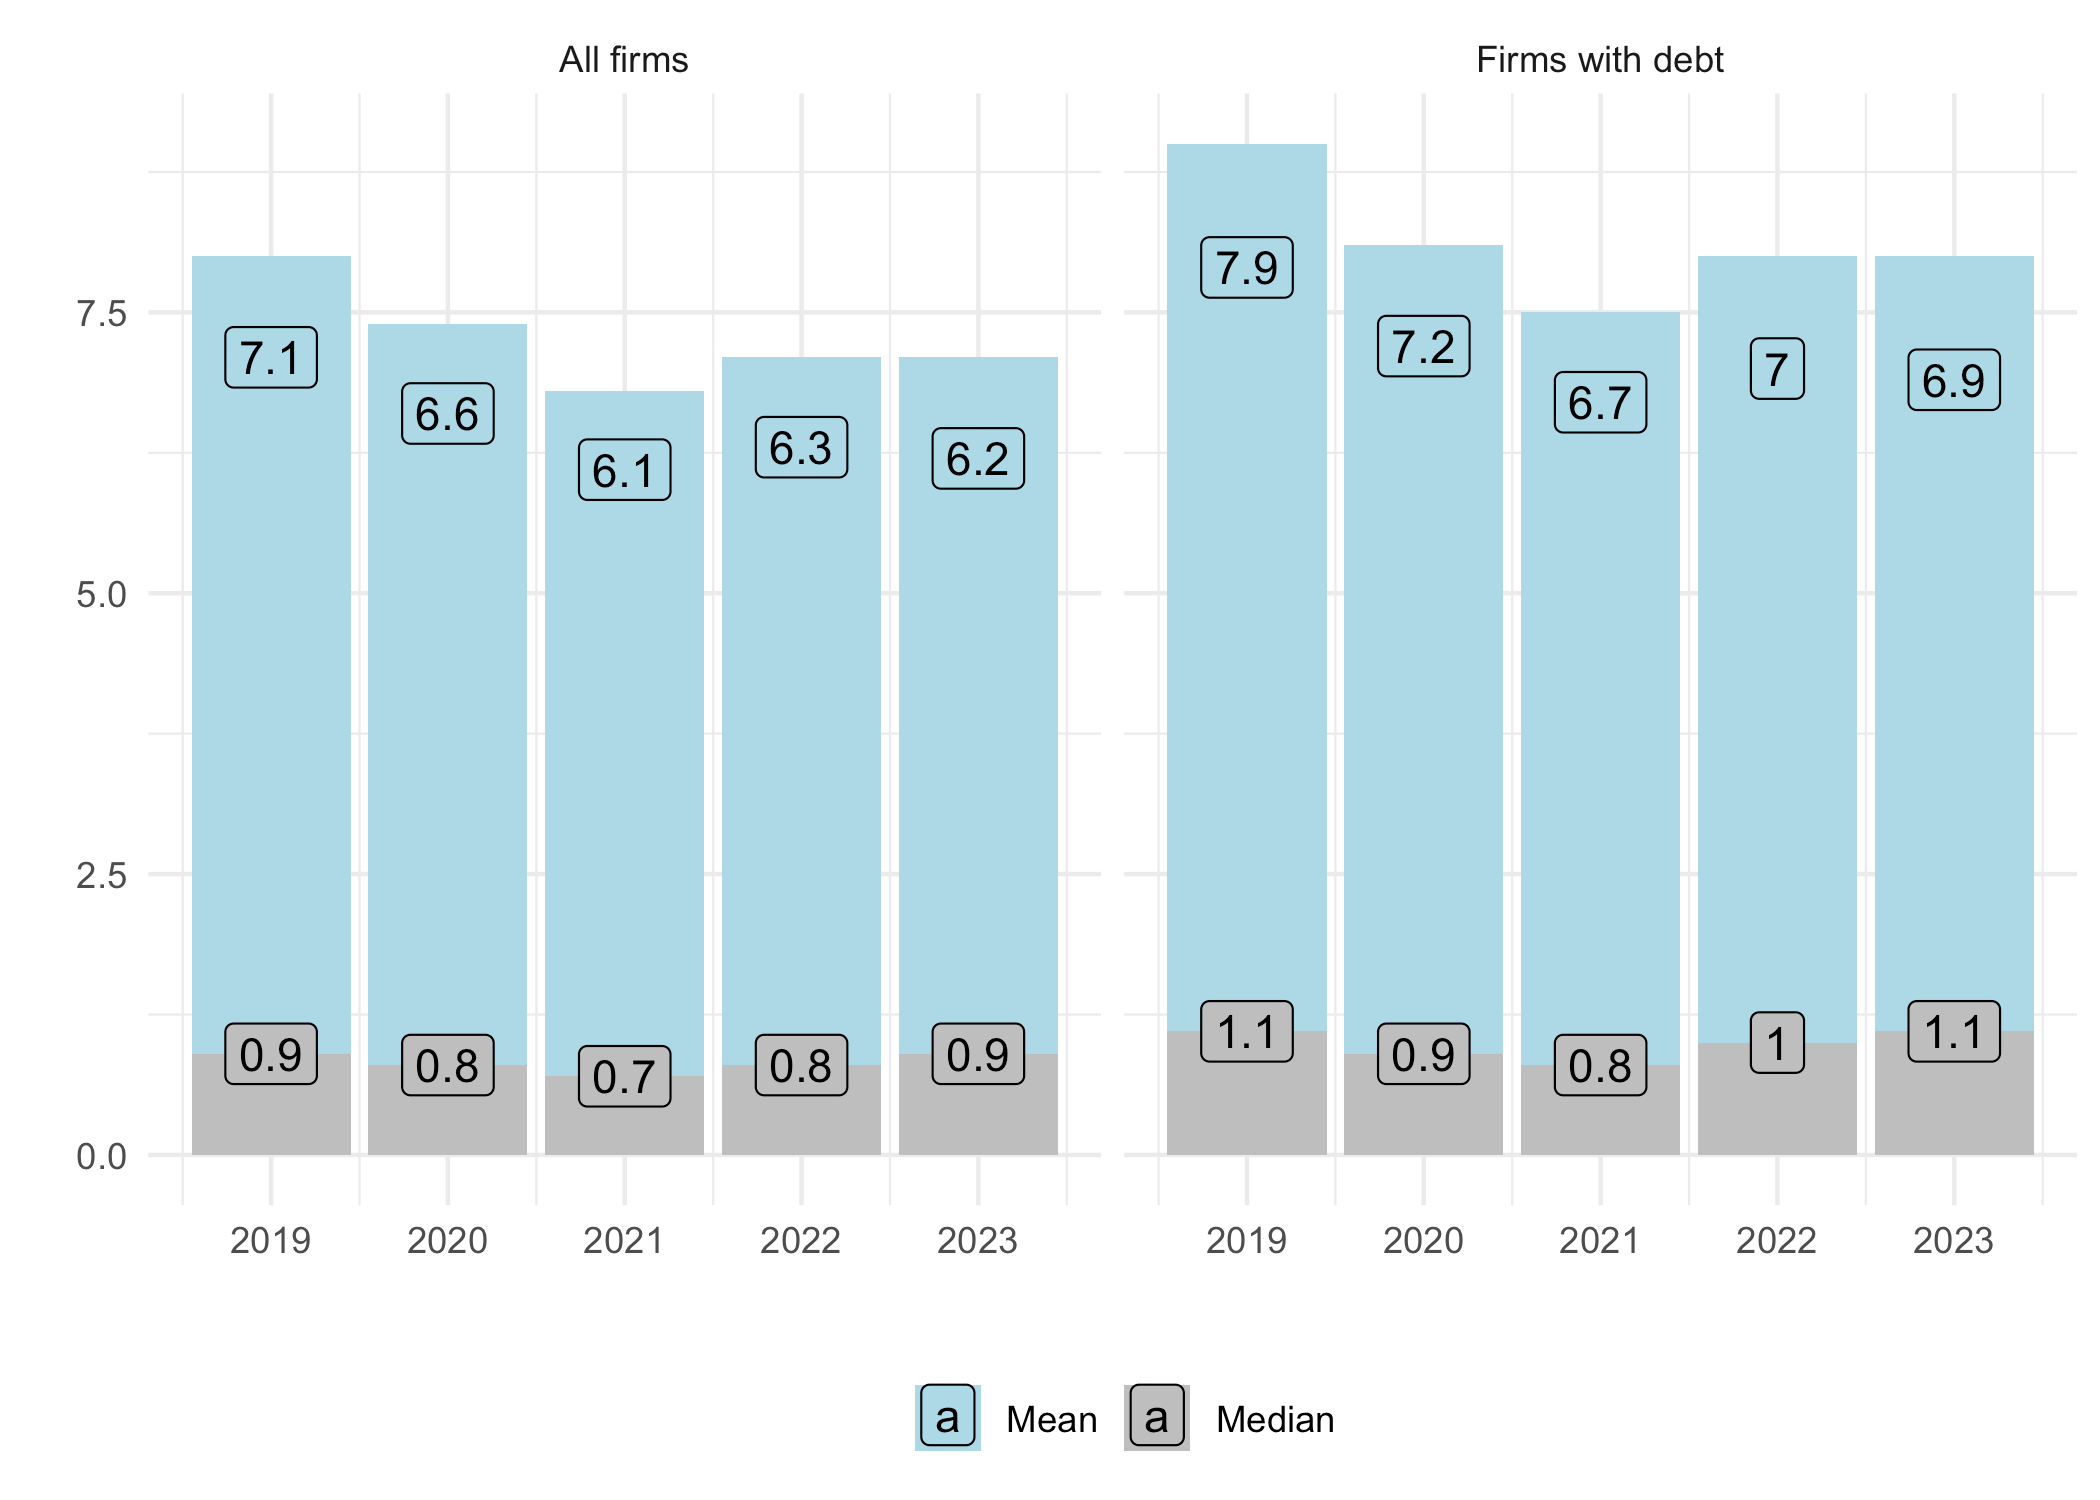
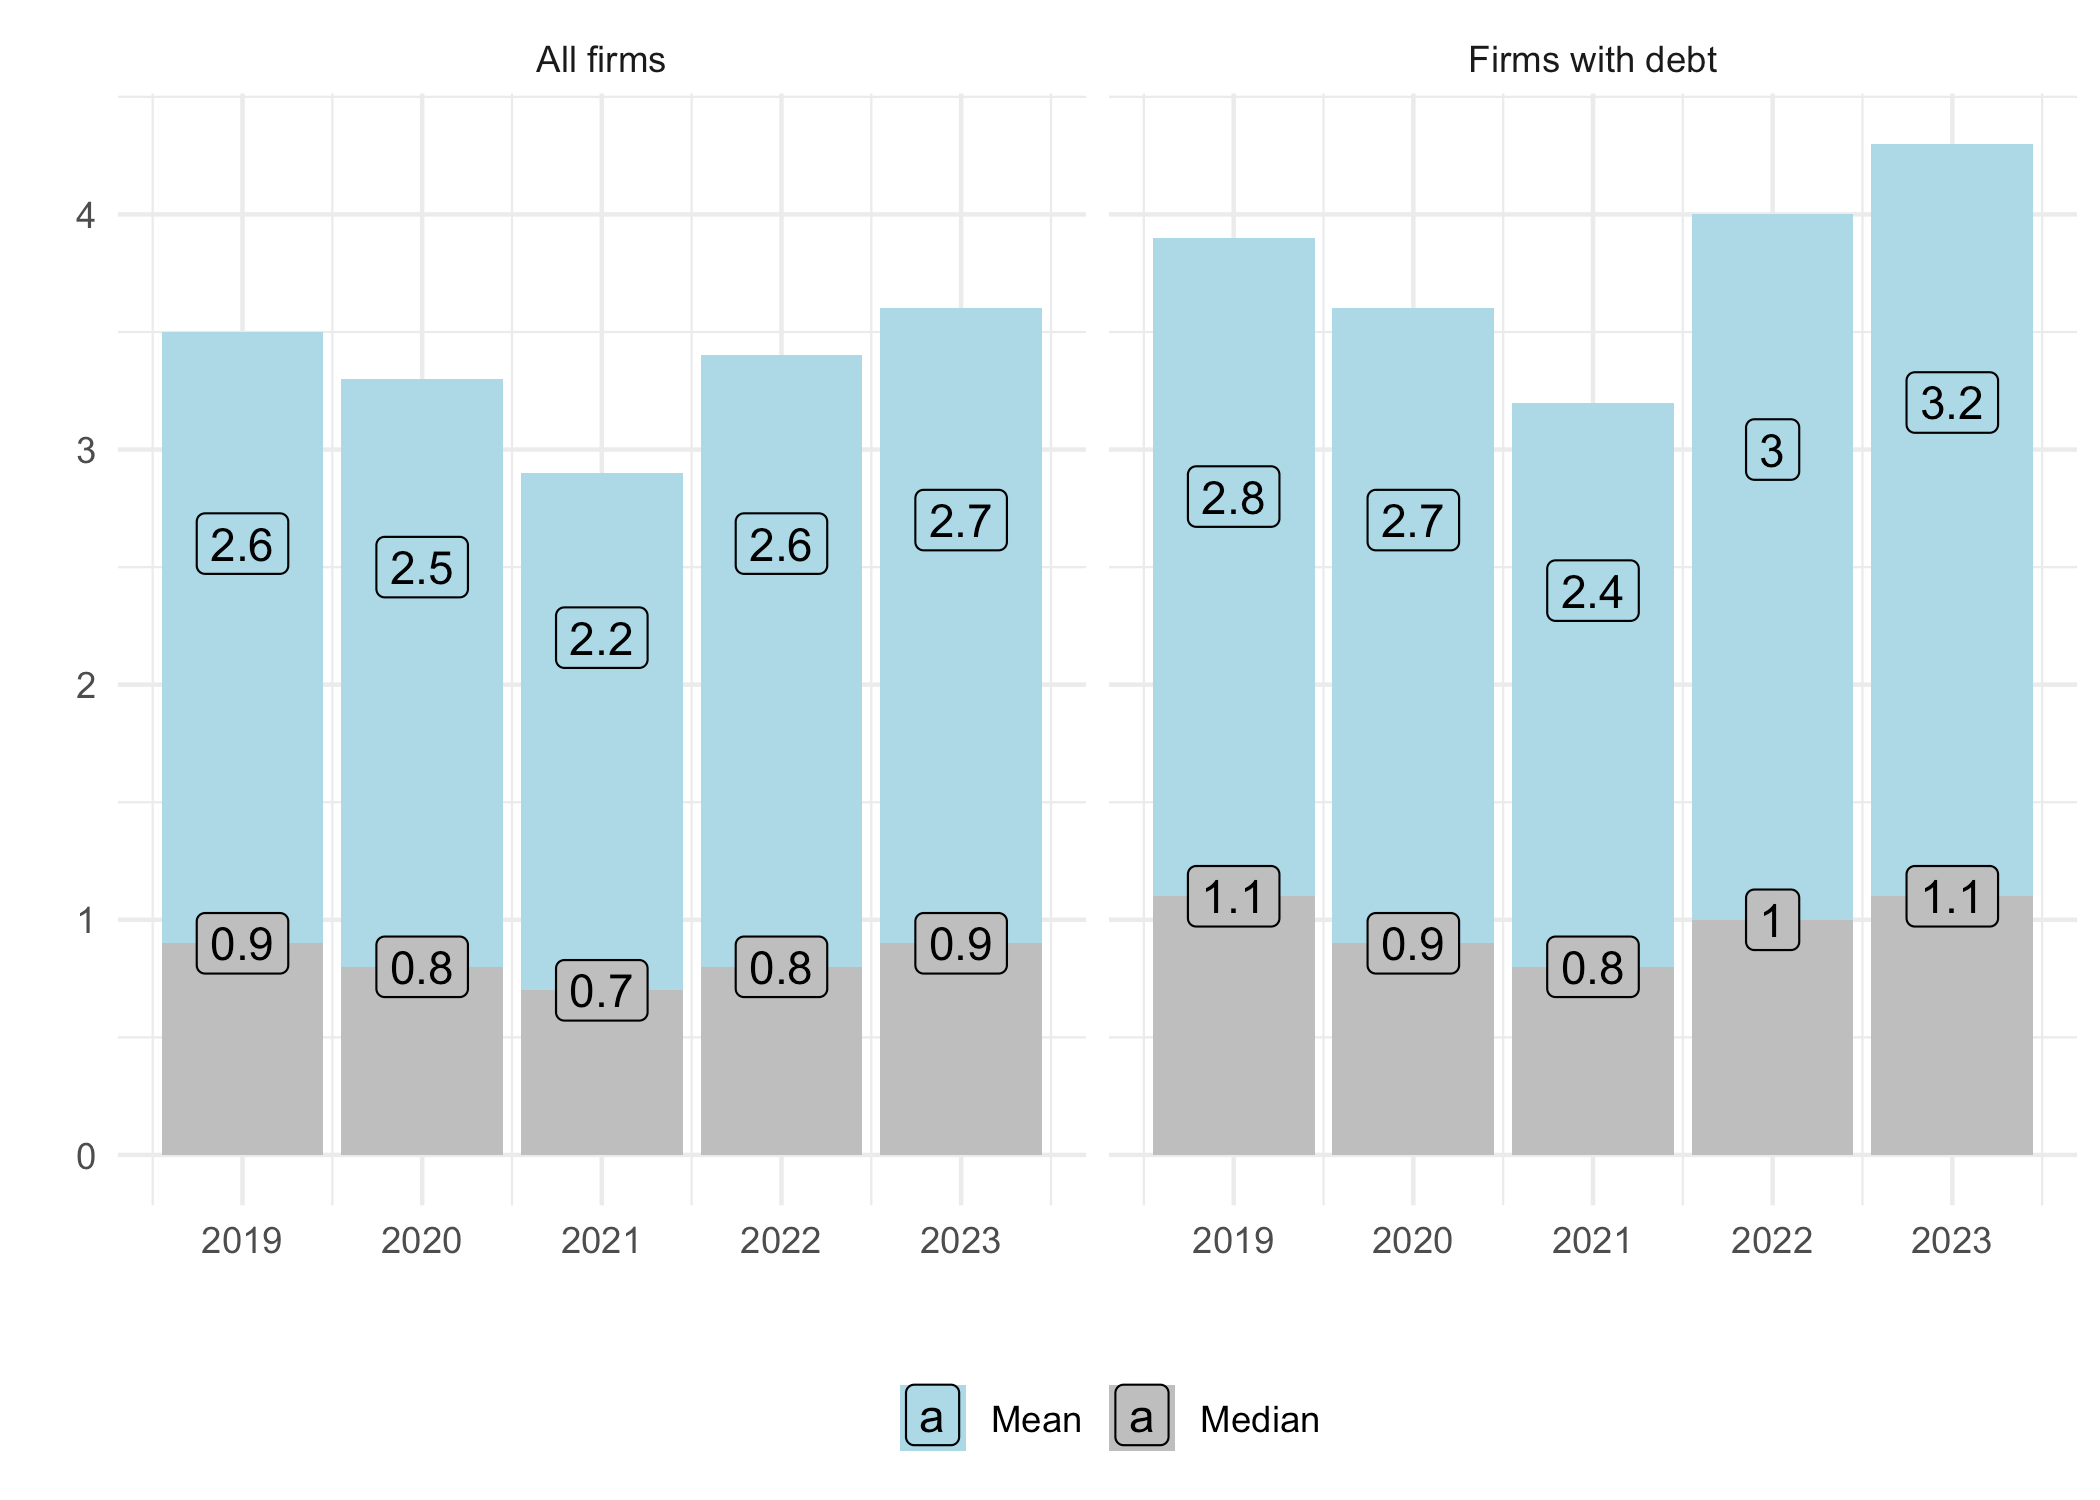
Fix interest payments ratio example
Use weighted mean to closely match the original paper

diff --git a/use_cases/interest_payments.md b/use_cases/interest_payments.md
@@ -74,17 +74,9 @@ scanner <- scan_builder$Finish()
 financials <- as.data.table(scanner$ToTable())
 ```
 
-    ## Warning: Potentially unsafe or invalid elements have been discarded from R metadata.
-    ## ℹ Type: "externalptr"
-    ## → If you trust the source, you can set `options(arrow.unsafe_metadata = TRUE)` to preserve them.
-
 ``` r
 gc()
 ```
-
-    ##             used   (Mb) gc trigger   (Mb) limit (Mb)  max used   (Mb)
-    ## Ncells  11428071  610.4   21263614 1135.6         NA  11435179  610.8
-    ## Vcells 330095436 2518.5  662205981 5052.3      65536 655706610 5002.7
 
 ``` r
 # Rename variables
@@ -189,8 +181,8 @@ plot(figure2)
 <img src="../figures/mogilyat_figure2.png" width="60%"/>
 
 Despite our efforts to replicate the target study filtering procedures,
-the RFSD has slightly more firms than SPARK in each year. This may be
-due to data completeness issues with SPARK, differences in the outlier
+the RFSD has slightly more firms than SPARK each year. This may be due
+to data completeness issues with SPARK, differences in the outlier
 filtering procedure of MMPTT, or differences in the definition of
 financial firms between SPARK and the RFSD.
 
@@ -200,12 +192,14 @@ all firms and for firms with debt:
 
 ``` r
 # Mean and median interest cost ratios
+# Note that the mean is weighted by cost of goods sold
+# in MMPTT
 ## All firms
-interest_cost_ratio_by_year_all_firms <- cbr_sample[, list(meanratio = mean(interest_cost_ratio), medianratio = median(interest_cost_ratio)), by = c("year")]
+interest_cost_ratio_by_year_all_firms <- cbr_sample[, list(meanratio = weighted.mean(interest_cost_ratio, w = costofgoodssold), medianratio = median(interest_cost_ratio)), by = c("year")]
 interest_cost_ratio_by_year_all_firms[, sample := "All firms"]
 
 ## Firms with debt
-interest_cost_ratio_by_year_firms_with_debt <- cbr_sample[has_debt == 1, list(meanratio = mean(interest_cost_ratio), medianratio = median(interest_cost_ratio)), by = c("year")]
+interest_cost_ratio_by_year_firms_with_debt <- cbr_sample[has_debt == 1, list(meanratio = weighted.mean(interest_cost_ratio, w = costofgoodssold), medianratio = median(interest_cost_ratio)), by = c("year")]
 interest_cost_ratio_by_year_firms_with_debt[, sample := "Firms with debt"]
 
 interest_cost_ratio_by_year <- rbind(interest_cost_ratio_by_year_all_firms, interest_cost_ratio_by_year_firms_with_debt, fill = T)
@@ -228,14 +222,10 @@ plot(figure3)
 ![](../figures/interest_figure3-1.png)<!-- -->
 <img src="../figures/mogilyat_figure3.png" width="60%"/>
 
-While the medians are identical, the means tell a different story in the
-RFSD data, being almost twice as large as in the MMPTT calculations. We
-have no explanation for this discrepancy other than material differences
-in the outlier filtering procedures between the target study and our
-replication which we cannot account for here as they are undocumented.
-These differences do matter, as they double the interest expense to cost
-of sales ratio, which was found to be insignificant in the original
-study.
+The medians are identical, while the means are slightly different. We
+explain this discrepancy by differences in the outlier filtering
+procedures between the target study and our replication which we cannot
+account for here as they are undocumented.
 
 We conclude our replication by suggesting an alternative source of data
 for the ratio. Larger companies report their current and investment
@@ -251,11 +241,11 @@ cbr_sample[, interestpayments_cost_ratio := interestpayments/costofgoodssold ]
 
 # Mean and median interest payment to cost ratios
 ## All firms
-interestpayments_cost_ratio_by_year_all_firms <- cbr_sample[!is.na(interestpayments_cost_ratio), list(meanratio = mean(interestpayments_cost_ratio), medianratio = median(interestpayments_cost_ratio)), by = c("year")]
+interestpayments_cost_ratio_by_year_all_firms <- cbr_sample[!is.na(interestpayments_cost_ratio), list(meanratio = weighted.mean(interestpayments_cost_ratio, w = costofgoodssold), medianratio = median(interestpayments_cost_ratio)), by = c("year")]
 interestpayments_cost_ratio_by_year_all_firms[, sample := "All firms"]
 
 ## Firms with debt
-interestpayments_cost_ratio_by_year_firms_with_debt <- cbr_sample[has_debt == 1 & !is.na(interestpayments_cost_ratio), list(meanratio = mean(interestpayments_cost_ratio), medianratio = median(interestpayments_cost_ratio)), by = c("year")]
+interestpayments_cost_ratio_by_year_firms_with_debt <- cbr_sample[has_debt == 1 & !is.na(interestpayments_cost_ratio), list(meanratio = weighted.mean(interestpayments_cost_ratio, w = costofgoodssold), medianratio = median(interestpayments_cost_ratio)), by = c("year")]
 interestpayments_cost_ratio_by_year_firms_with_debt[, sample := "Firms with debt"]
 
 interestpayments_cost_ratio_by_year <- rbind(interestpayments_cost_ratio_by_year_all_firms, interestpayments_cost_ratio_by_year_firms_with_debt, fill = T)
@@ -276,5 +266,4 @@ plot(figure3_alt)
 
 ![](../figures/interest_figure3alt-1.png)<!-- -->
 
-Here we observe an even higher interest/cost ratio, possibly indicating
-a greater role for the cost channel in the Russian economy.
+Here we observe a different interest/cost ratio.

diff --git a/README.md b/README.md
@@ -232,7 +232,7 @@ Below is our To-Do list, we will be grateful for any contributions you can make.
 - [ ] Better outlier detection procedure (https://github.com/irlcode/rfsd/issues/2)
 - [ ] Better detection of financial firms (https://github.com/irlcode/rfsd/issues/3)
 - [ ] Improve next-year imputation procedure (https://github.com/irlcode/rfsd/issues/4)
-- [ ] Explain differences with [Mogilyat et al. (2024)](https://github.com/irlcode/RFSD/blob/main/use_cases/interest_payments.md) (https://github.com/irlcode/rfsd/issues/5)
+- [X] Explain differences with [Mogilyat et al. (2024)](https://github.com/irlcode/RFSD/blob/main/use_cases/interest_payments.md) (https://github.com/irlcode/rfsd/issues/5)
 - [ ] Explain differences with [Kaukin and Zhemkova (2023)](https://github.com/irlcode/RFSD/blob/main/use_cases/tfp.md) (https://github.com/irlcode/rfsd/issues/6)
 
 
